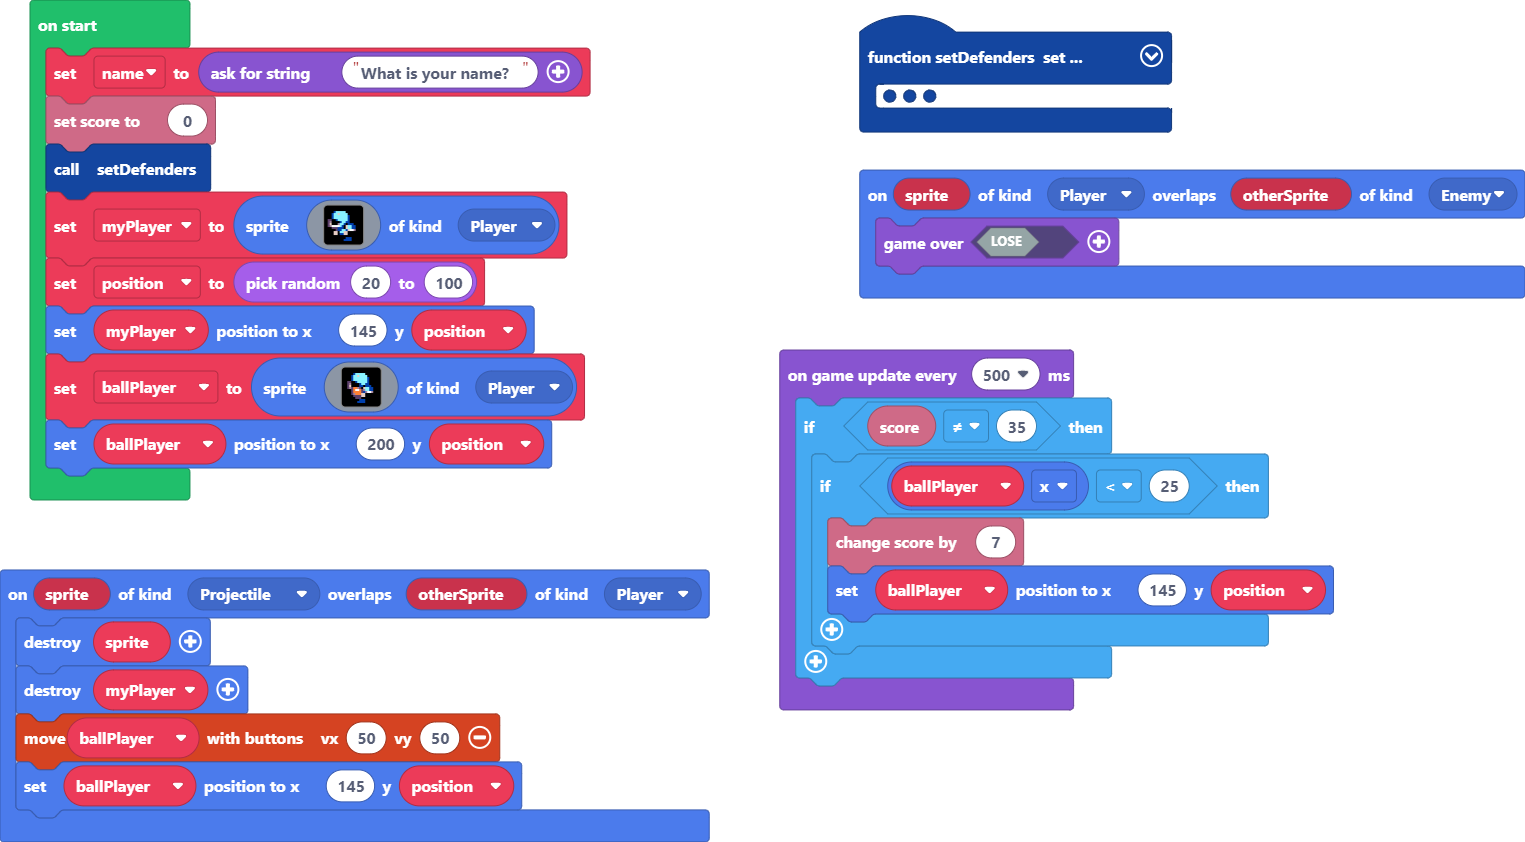
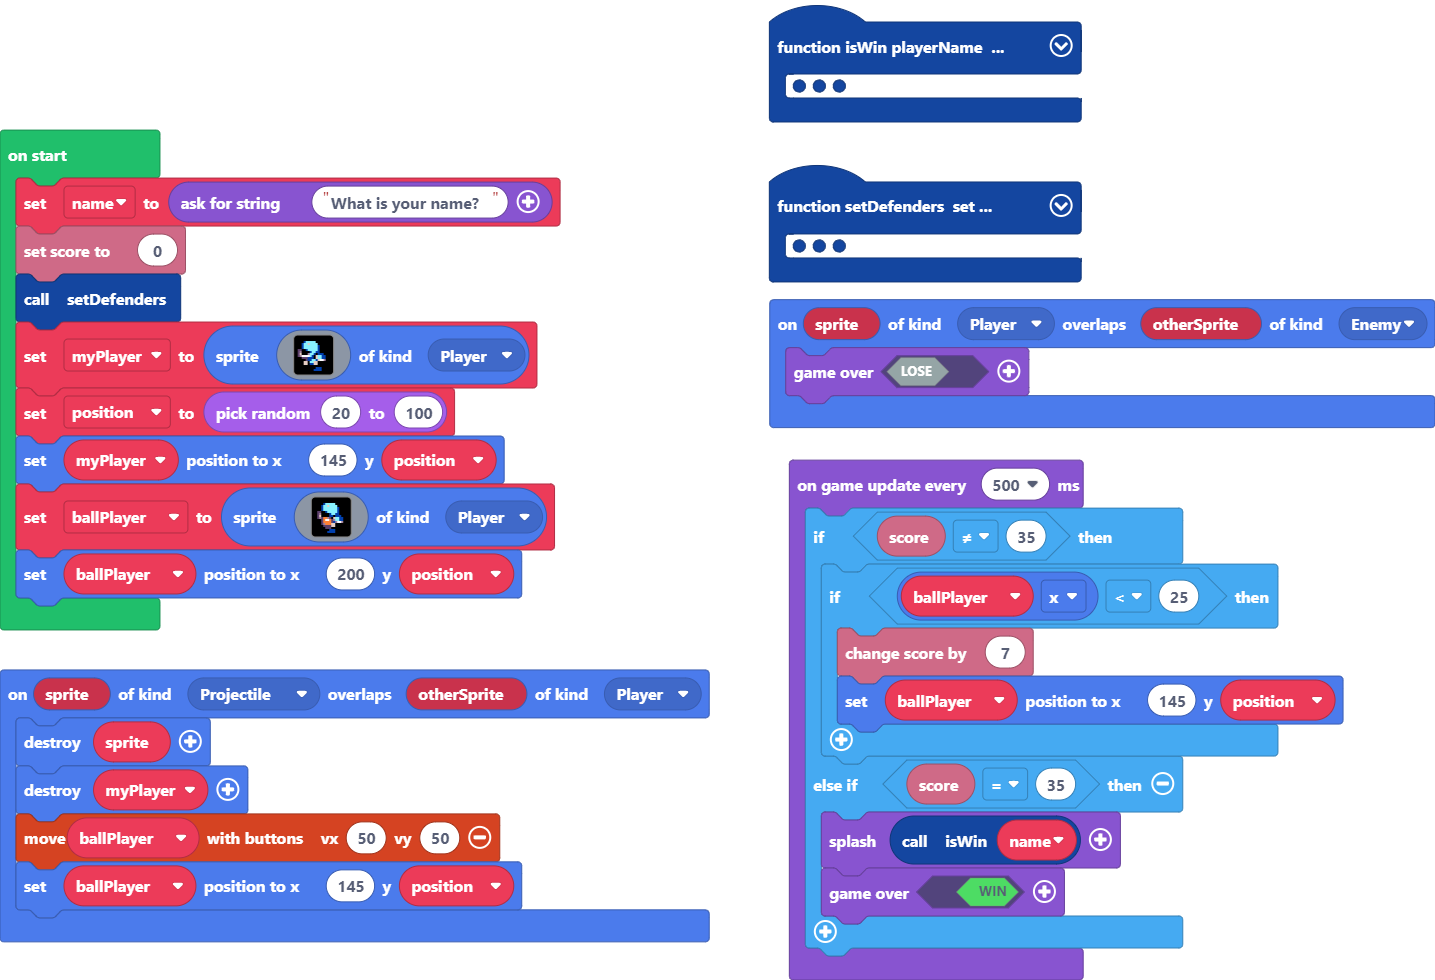
Update main.blocks, main.ts

diff --git a/main.ts b/main.ts
@@ -69,6 +69,9 @@ function setDefenders () {
     obstacle3.vy = randint(20, 40)
     obstacle3.setBounceOnWall(true)
 }
+function isWin (playerName: string) {
+    return "You win " + playerName + "!"
+}
 sprites.onOverlap(SpriteKind.Player, SpriteKind.Enemy, function (sprite, otherSprite) {
     game.over(false)
 })
@@ -126,5 +129,8 @@ game.onUpdateInterval(500, function () {
             info.changeScoreBy(7)
             ballPlayer.setPosition(145, position)
         }
+    } else if (info.score() == 35) {
+        game.splash(isWin(name))
+        game.over(true)
     }
 })
